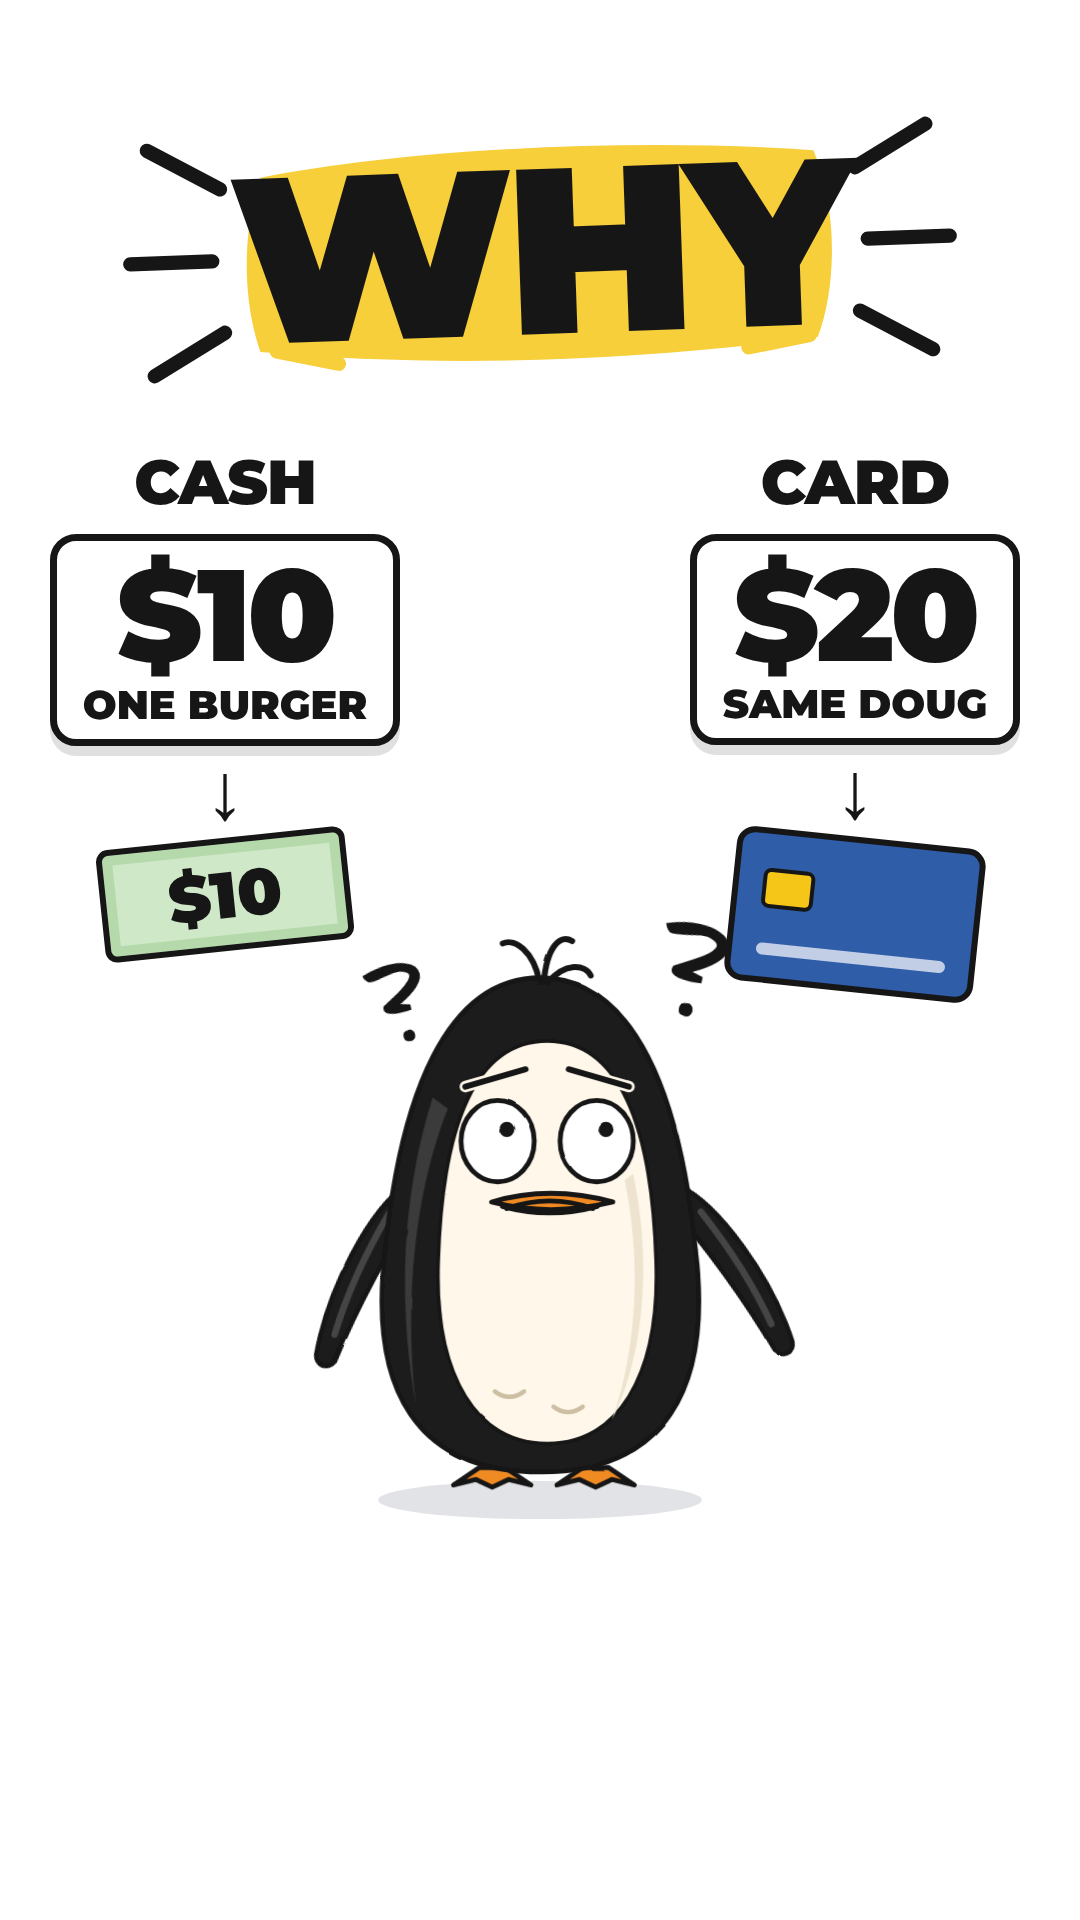
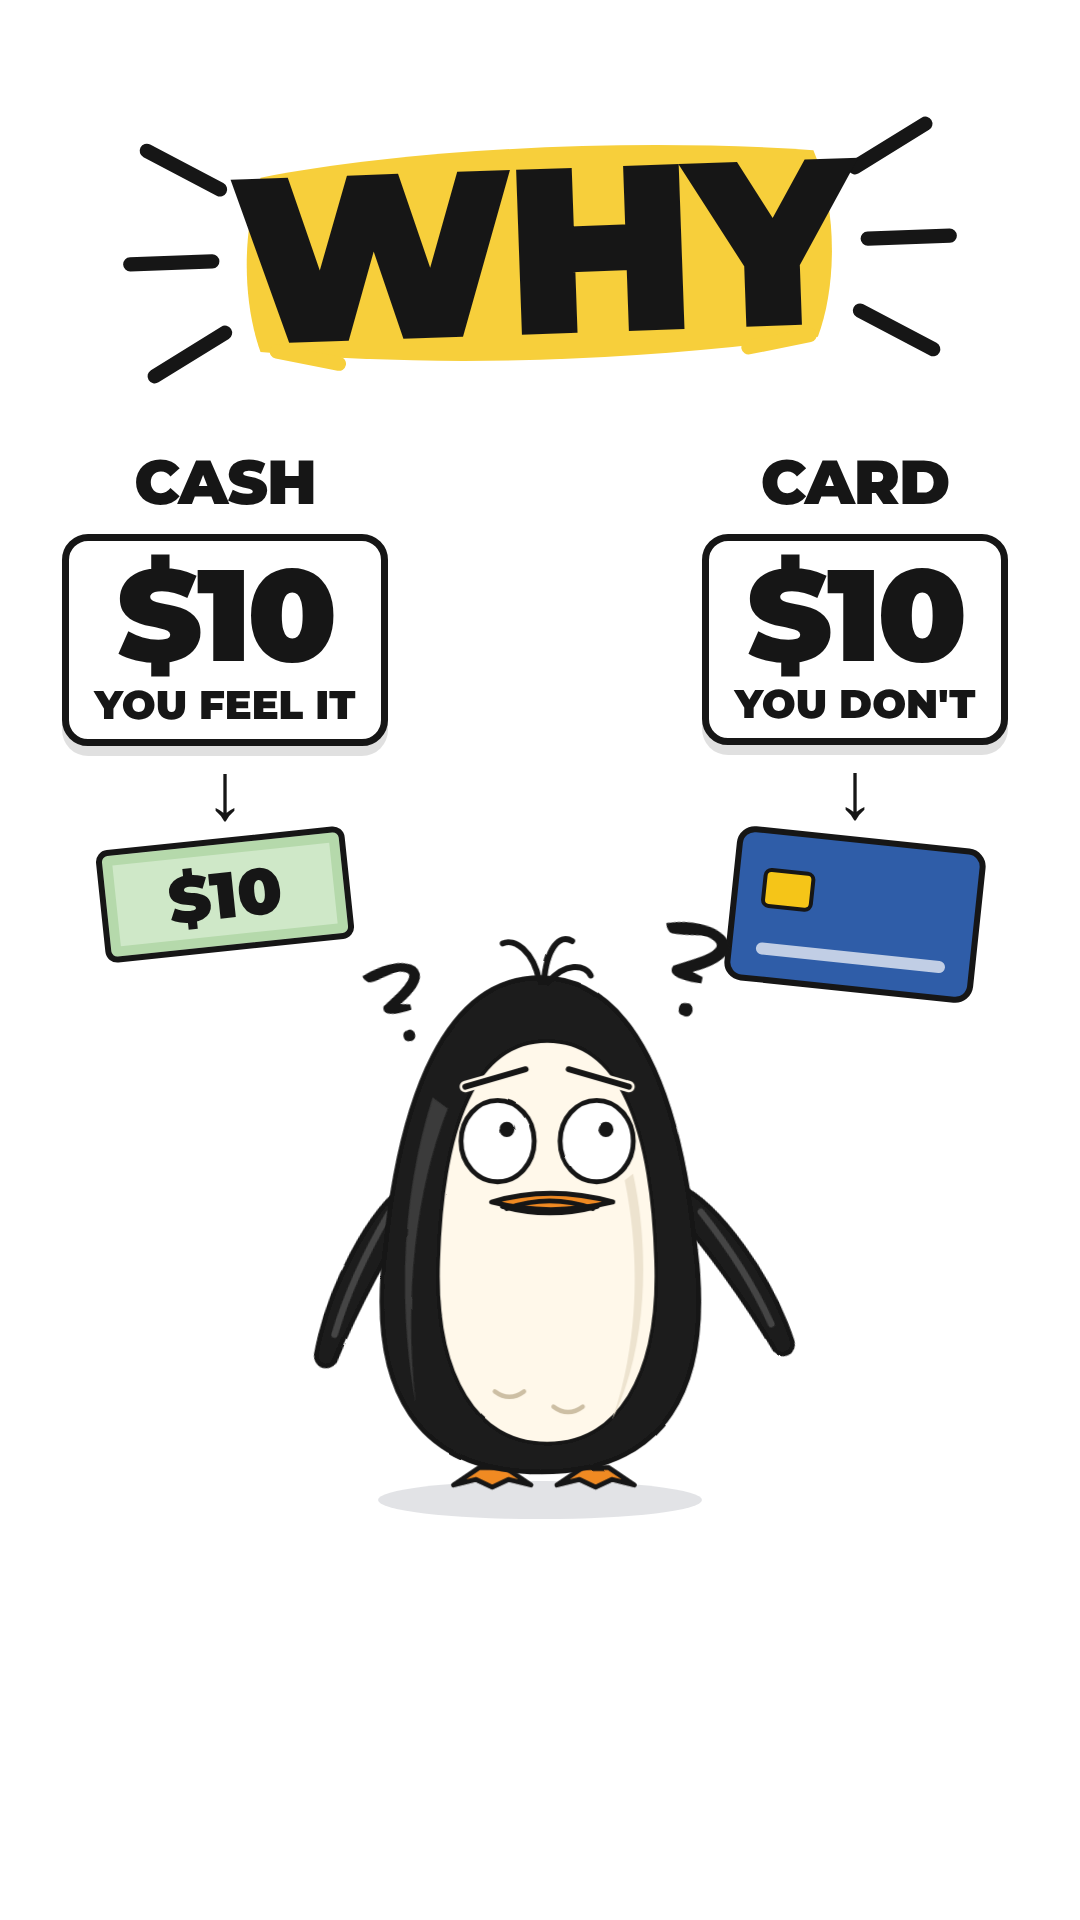
EP5: hook = 'What is the difference between paying $10 with cash and $10 with card?' ($10 vs $10)
Claude-Session: https://claude.ai/code/session_01TpxkbLAeDEzMwkLhjRXMiW

Changed region(s): [[0.6417, 0.2812, 0.9472, 0.4062], [0.0306, 0.2812, 0.3972, 0.4062]]

diff --git a/studio/src/videos/dougCashCard.tsx b/studio/src/videos/dougCashCard.tsx
@@ -1,4 +1,4 @@
-// EP5 "Why Doug spends $10 with cash but $20 with card" — WhyHook main template (Edit rules v4).
+// EP5 "What is the difference between paying $10 with cash and $10 with card?" — WhyHook main template (Edit rules v4).
 import React from 'react';
 import {WhyHook} from '../penguin/whyHook';
 import {INK} from '../penguin/rig';
@@ -13,5 +13,5 @@ const Card = ({w = 250}: {w?: number}) =>
   </div>;
 
 export const DougCashCardHook = () => <WhyHook
-  left={{label: 'CASH', price: '$10', unit: 'ONE BURGER', obj: <Cash />}}
-  right={{label: 'CARD', price: '$20', unit: 'SAME DOUG', obj: <Card />}} />;
+  left={{label: 'CASH', price: '$10', unit: 'YOU FEEL IT', obj: <Cash />}}
+  right={{label: 'CARD', price: '$10', unit: "YOU DON'T", obj: <Card />}} />;
